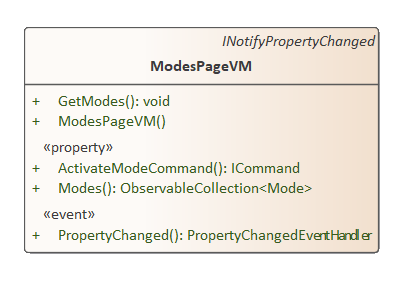
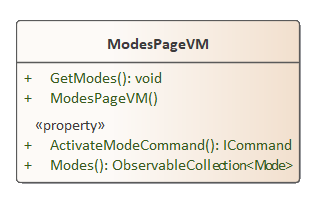
made changes to vm section

Changed region(s): [[0.0312, 0.0822, 0.9375, 0.9041]]

diff --git a/Dokumente/02 - Entwurf/entwurf/2_app/viewmodel.tex b/Dokumente/02 - Entwurf/entwurf/2_app/viewmodel.tex
@@ -45,7 +45,6 @@ Diese Klasse enthält die UI-Logik der \code{AudioLibPage}. Sie stellt dieser ö
 \begin{itemize}
 	\i{public AudioLibPageVM(NavigationHandler handler)} Der Konstruktor der Klasse initialisiert die Commands.
 	\i{public void GetSongs()} Diese Methode ruft die Songs ab, die im Model gespeichert sind und weist sie der Property \code{Songs} zu.
-	\i{public event PropertyChangedEventHandler PropertyChanged} Dieser Eventhandler ermöglicht Kommunikation mit der View.
 \end{itemize}
 \subsection{AudioPlayerPageVM}
 \begin{minipage}{0.5\textwidth}
@@ -84,7 +83,7 @@ Diese Klasse enthält die UI-Logik der \code{ConnectionPage}. Sie stellt dieser 
 \end{minipage}
 \paragraph{Attribute \& Properties}
 \begin{itemize}
-	\i{public ObservableCollection<IEarable> Devices} Hier werden die Geräte gepeichert die in der View angezeigt werden sollen.
+	\i{public ObservableCollection<BluetoothDevice> Devices} Hier werden die Geräte gepeichert die in der View angezeigt werden sollen. \glsnote{ro}
 	\i{public ICommand RefreshDevicesCommand} Dieser Command aktualisiert über private Methoden \code{Devices} mit den Geräten die im Model gefunden werden. \glsnote{ro}
 	\i{public ICommand ConnectToDeviceCommand} Dieser Command versucht über private Methoden eine Verbindung mit dem in der View ausgewähltem Gerät aufzubauen. \glsnote{ro}
 \end{itemize}
@@ -92,7 +91,6 @@ Diese Klasse enthält die UI-Logik der \code{ConnectionPage}. Sie stellt dieser 
 \begin{itemize}
 	\i{public ConnectionPageVM(NavigationHandler handler)} Der Konstruktor der Klasse initialisiert die Commands.
 	\i{public void RefreshDevices()} Diese Methode ruft die im Model momentan erkannten Geräte ab und fügt sie der Property \code{Devices} hinzu.
-	\i{public event PropertyChangedEventHandler PropertyChanged} Dieser Eventhandler ermöglicht Kommunikation mit der View.
 \end{itemize}
 \subsection{MainPageVM}
 \begin{minipage}{0.5\textwidth}
@@ -137,7 +135,6 @@ Diese Klasse enthält die UI-Logik der \code{ModesPage}. Sie stellt dieser öffe
 \begin{itemize}
 	\i{public ModesPageVM()} Der Konstruktor der Klasse initialisiert die Commands.
 	\i{public void GetModes()} Diese Methode ruft die im Model vorhandenen Modi ab und weist sie der Property \code{Modes} zu.
-	\i{public event PropertyChangedEventHandler PropertyChanged} Dieser Eventhandler ermöglicht Kommunikation mit der View.
 \end{itemize}
 \subsection{SettingsPageVM}
 \begin{minipage}{0.5\textwidth}

diff --git a/Karl/Karl/ViewModel/AudioPlayerPageVM.cs b/Karl/Karl/ViewModel/AudioPlayerPageVM.cs
@@ -10,13 +10,13 @@ namespace Karl.ViewModel
 	{
 		private AudioPlayer _audioPlayer;
 		private AudioLib _audioLib;
-		//private Image _iconPlay;
-		//private Image _iconPause;
+		private Image _iconPlay;
+		private Image _iconPause;
 		private AudioTrack _audioTrack;
 		private Boolean _pausePlayBoolean;
 		private int _volume;
 		private double _currentPosition;
-		//private Image _icon;
+		private Image _icon;
 
 		/// <summary>
 		/// Safes the state of the active Audio Track(True = Playing False=Pausing)
@@ -75,7 +75,7 @@ namespace Karl.ViewModel
 				OnPropertyChanged("CurrentPosition");
 			}
 		}
-		/*
+		
 		public Image Icon
 		{
 			get
@@ -91,7 +91,7 @@ namespace Karl.ViewModel
 				}
 			}
 		}
-		*/
+		
 
 		/**
 		 * Commands were called from Elements in AudioPlayerPage

diff --git a/Karl/Karl/ViewModel/MainPageVM.cs b/Karl/Karl/ViewModel/MainPageVM.cs
@@ -12,12 +12,12 @@ namespace Karl.ViewModel
 	public class MainPageVM : INotifyPropertyChanged
 	{
 		private NavigationHandler _handler;
-		//private Image _iconOn;
-		//private Image _iconOff;
+		private Image _iconOn;
+		private Image _iconOff;
 		private string _deviceName;
 		private string _stepsAmount;
 		private Boolean _connectBoolean;
-		//private Image _icon;
+		private Image _icon;
 
 		public string DeviceName
 		{
@@ -73,7 +73,7 @@ namespace Karl.ViewModel
 				}
 			}
 		}
-		/*
+		
 		public Image Icon
 		{
 			get
@@ -89,7 +89,7 @@ namespace Karl.ViewModel
 				}
 			}
 		}
-		*/
+		
 
 		/**
 		 Commands were called from Elements in Connection Page

diff --git a/Karl/Karl/ViewModel/AudioLibPageVM.cs b/Karl/Karl/ViewModel/AudioLibPageVM.cs
@@ -15,7 +15,7 @@ namespace Karl.ViewModel
 		private NavigationHandler _handler;
 		private AudioLib _audioLib;
 
-		public ObservableCollection<AudioTrack> Songs;
+		public ObservableCollection<AudioTrack> Songs { get; set; }
 
 		/**
 		 Commands were called from Elements in AudioLibPage

diff --git a/Karl/Karl/ViewModel/SettingsPageVM.cs b/Karl/Karl/ViewModel/SettingsPageVM.cs
@@ -17,7 +17,7 @@ namespace Karl.ViewModel
 		/// <summary>
 		/// List contains all available languages
 		/// </summary>
-		public ObservableCollection<Lang> Languages;
+		public ObservableCollection<Lang> Languages { get; set; }
 
 		/// <summary>
 		/// Contains the language of the app

diff --git a/Karl/Karl/ViewModel/ModesPageVM.cs b/Karl/Karl/ViewModel/ModesPageVM.cs
@@ -12,7 +12,7 @@ namespace Karl.ViewModel
 		/// <summary>
 		/// Contains all available modes of the App
 		/// </summary>
-		public ObservableCollection<Mode> Modes;
+		public ObservableCollection<Mode> Modes { get; set; }
 
 		public ICommand ActivateModeCommand { get; }
 
